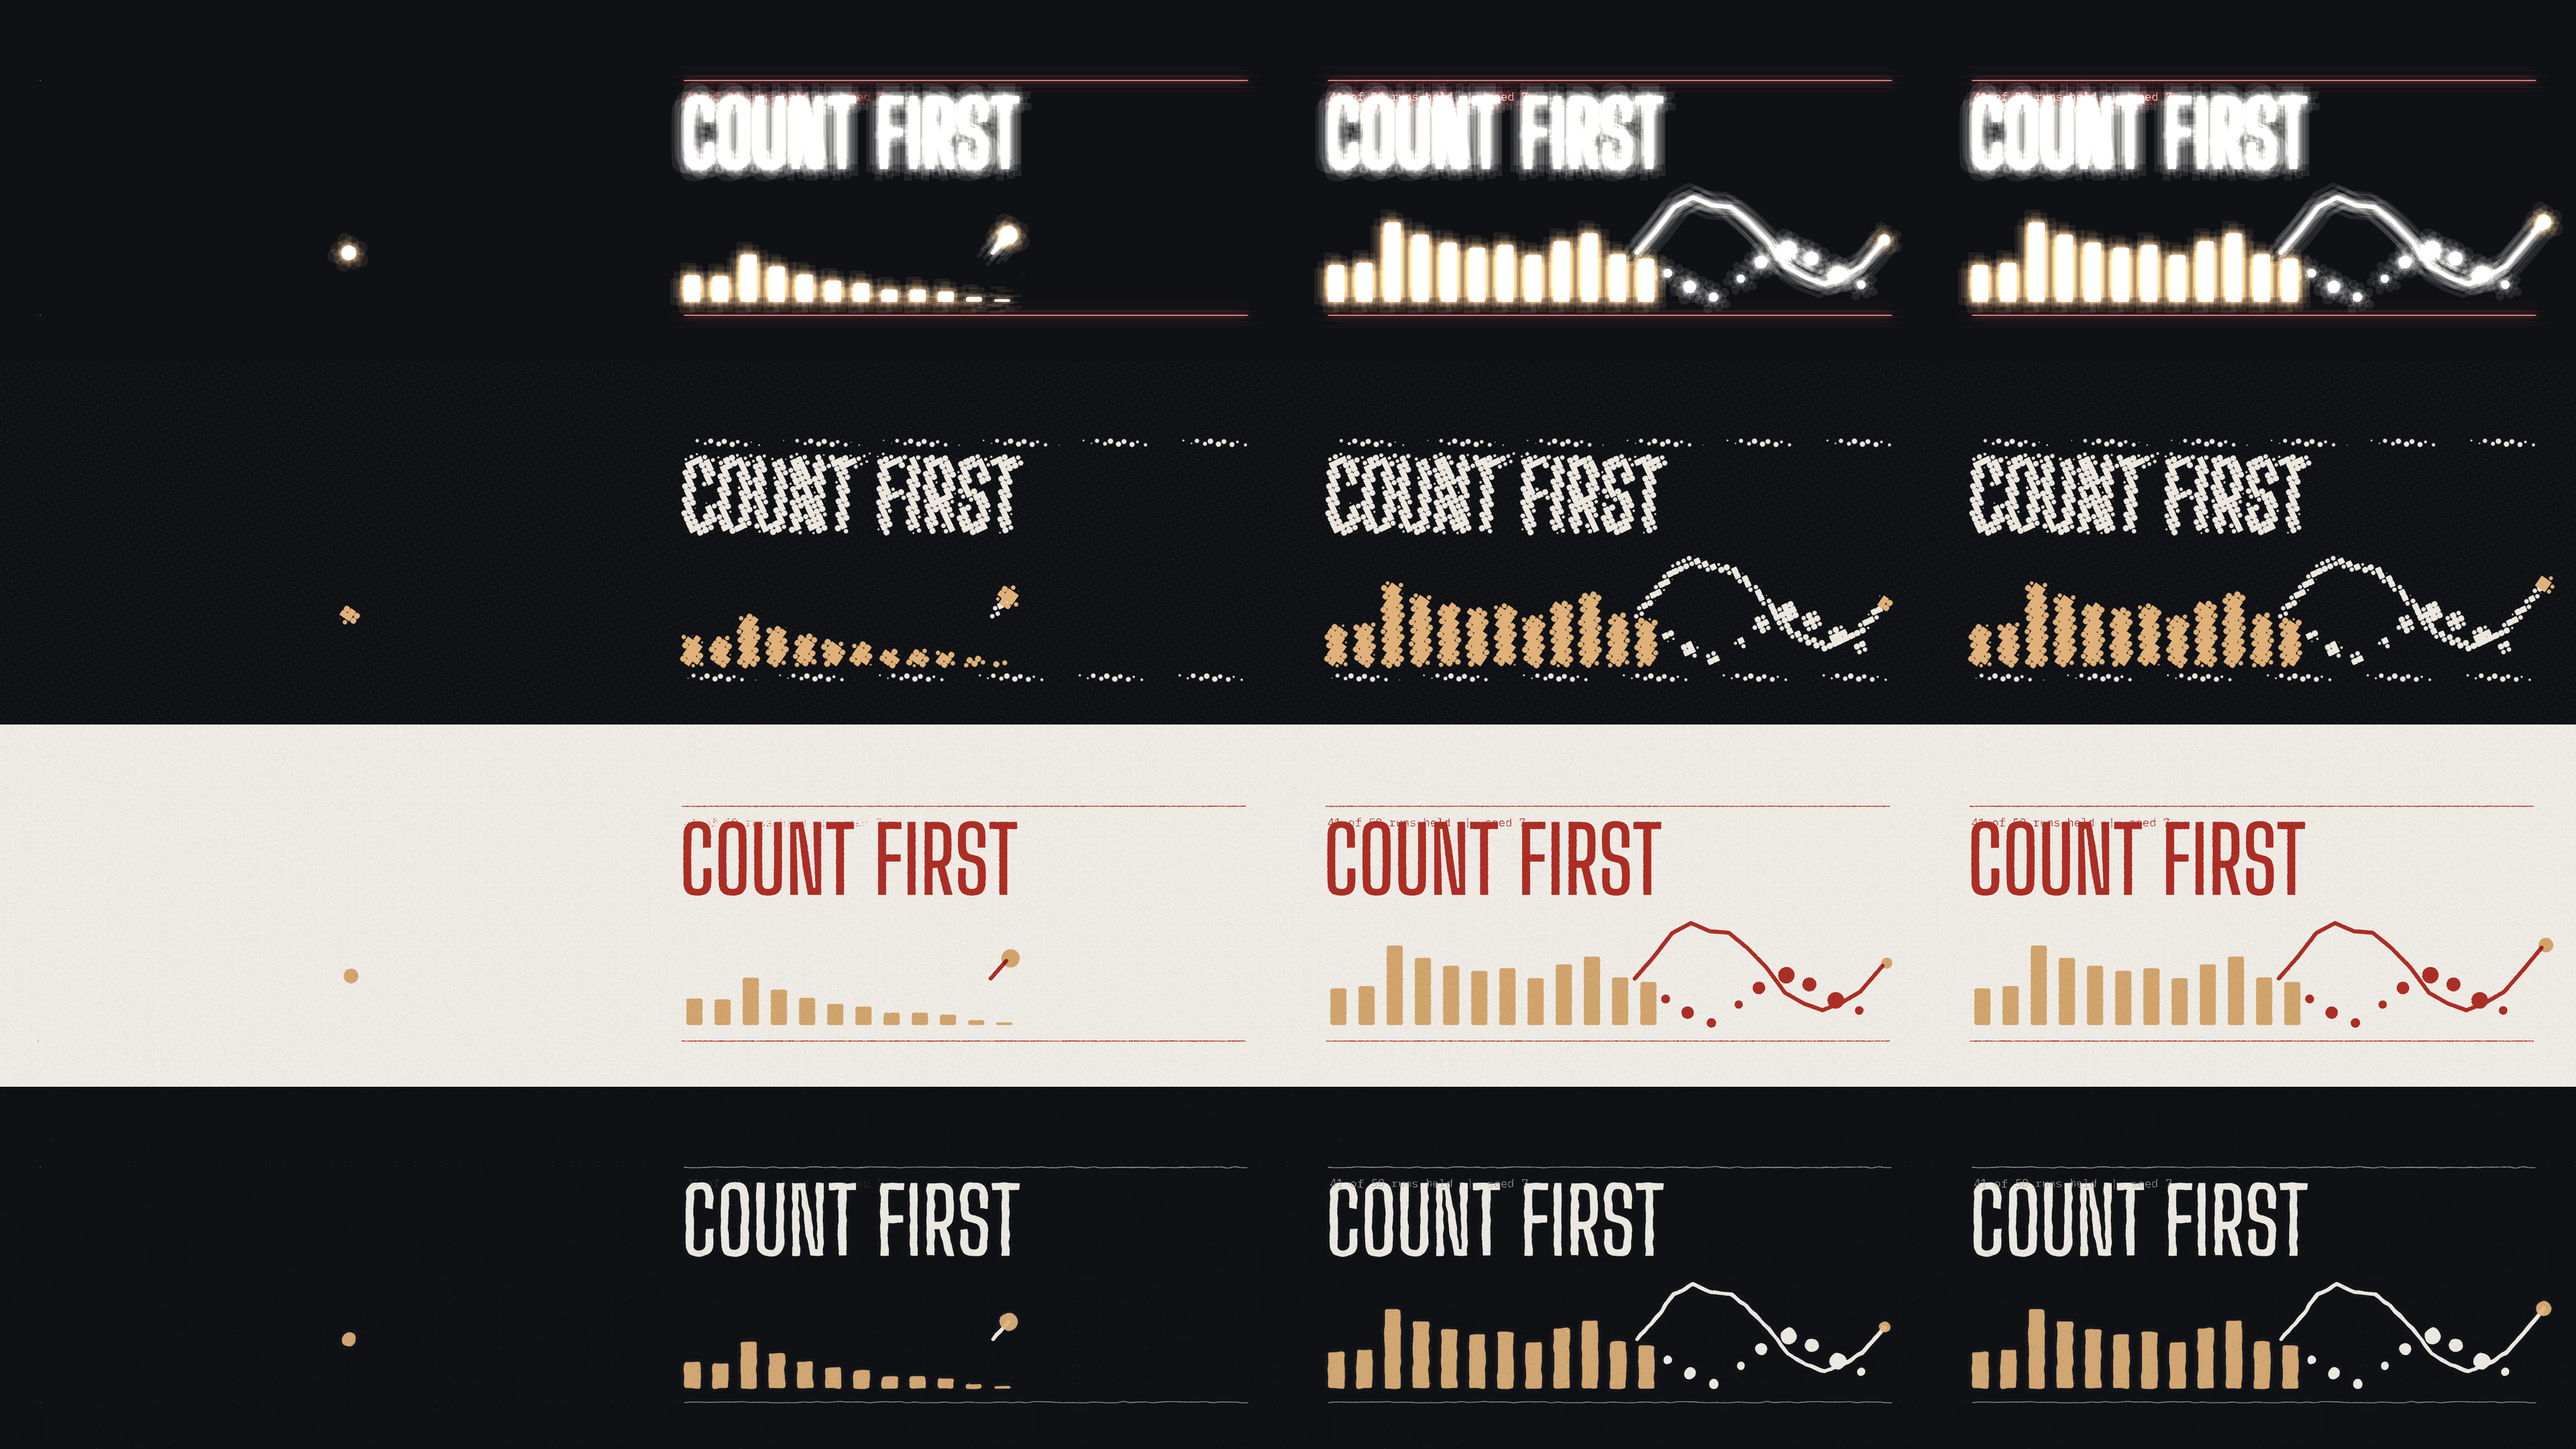
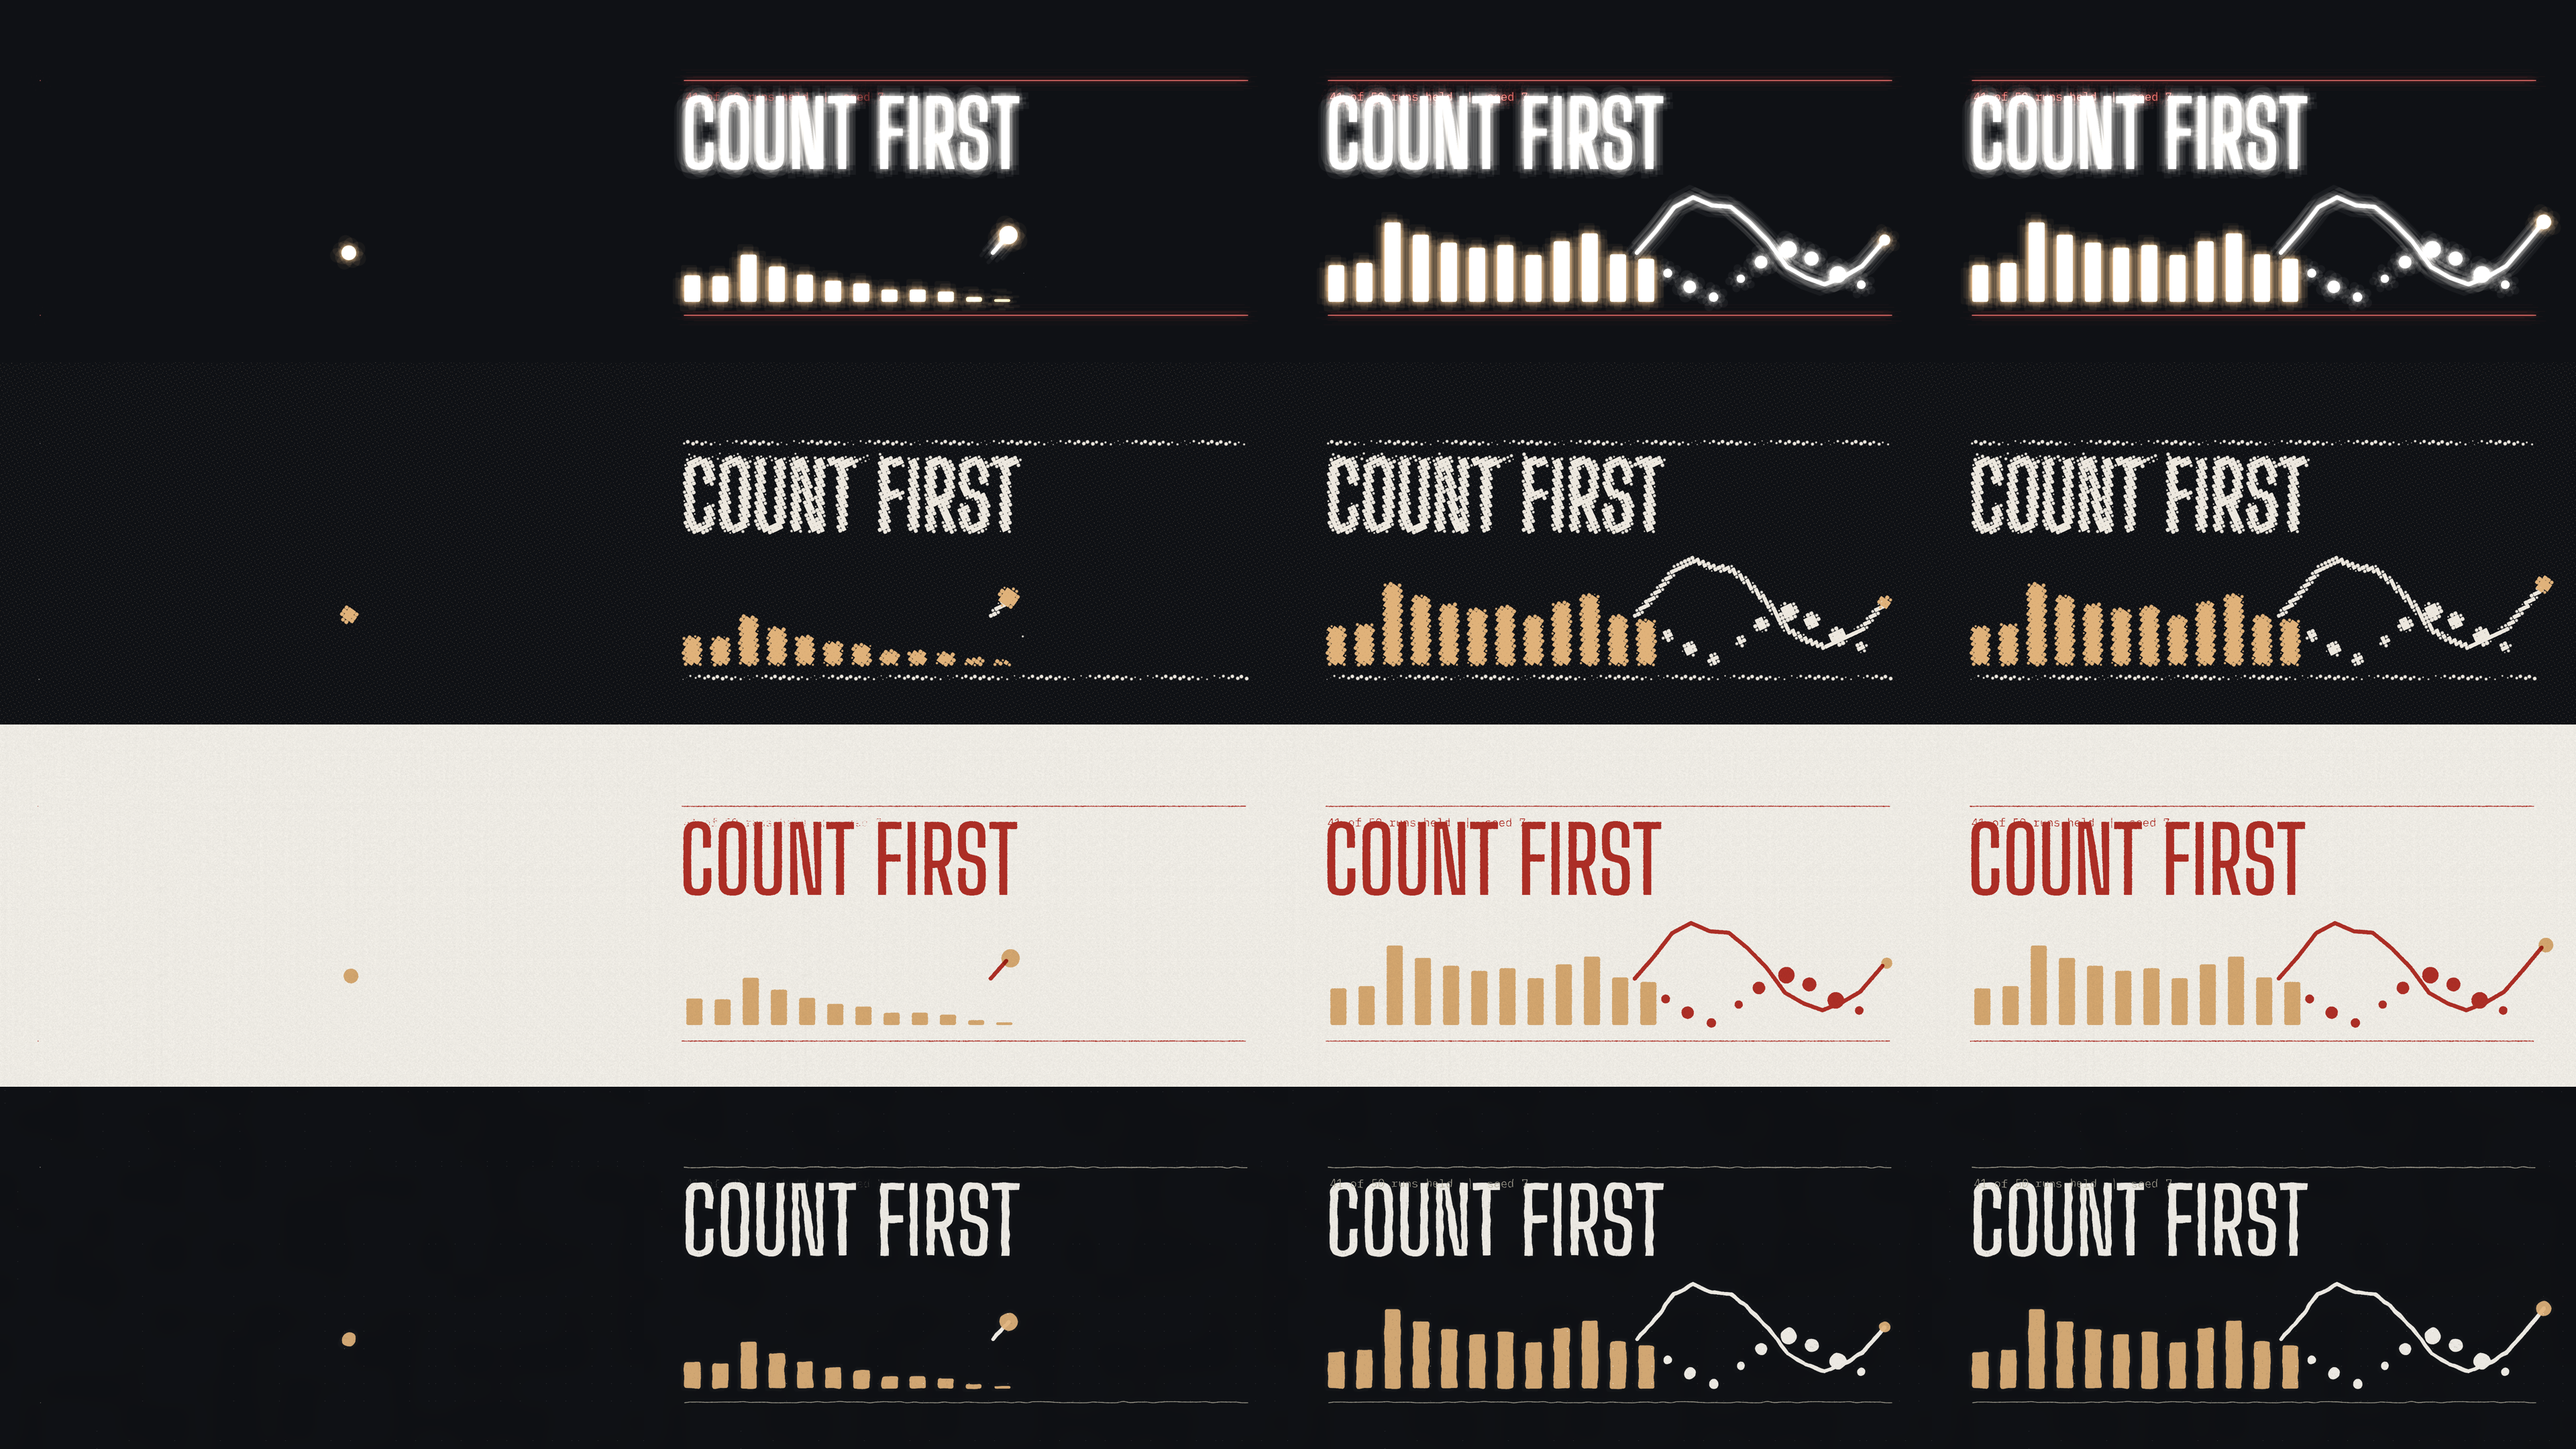
Arsenal lane: shader materials, final card
Claude-Session: https://claude.ai/code/session_013w2BSdYUZjAdQXTRzset9E

diff --git a/arsenal/materials/shader/card.md b/arsenal/materials/shader/card.md
@@ -23,7 +23,16 @@ Hand-written GLSL ES 1.00 via `createFilterShader` ([[p5-shader]], [[filter-shad
 
 ## Cost (SwiftShader software GL, 1920x1080 backing store)
 See table below; real GPUs are 2 to 3 orders of magnitude cheaper. Taps per pixel: neon 28 (+scene), halftone 8, riso 2 + hash, chalk 5 + noise. Scene redraw in P2D is about 5 ms. Harness `ms_per_frame` (seek only, GPU work queued) was 22 ms.
-COSTTABLE
+
+| look | s/frame, scene + filter + GPU sync (SwiftShader, incl. readback) | taps/px |
+|---|---|---|
+| neon | 2.48 | 28 |
+| halftone | 1.87 | 8 |
+| riso | 1.87 | 2 |
+| chalk | 2.17 | 5 |
+| 2D fallback (any look) | 0.9 | n/a |
+
+The floor (about 1.8 s) is the software rasteriser's texture upload and readback of the 1920x1080 layer, not the shader; looks differ by 0.1 to 0.6 s. A strands `buildFilterShader` probe in headless was inconclusive (my hook body referenced `canvasContent` outside the hook argument and threw), so it was not pursued.
 
 ## Pitfalls
 - Canvas is WEBGL, so p5 `text()` needs a loaded font; this module draws text in the P2D layer with CSS-loaded faces, so the page must load the brand fonts before seek (demo awaits document.fonts).
